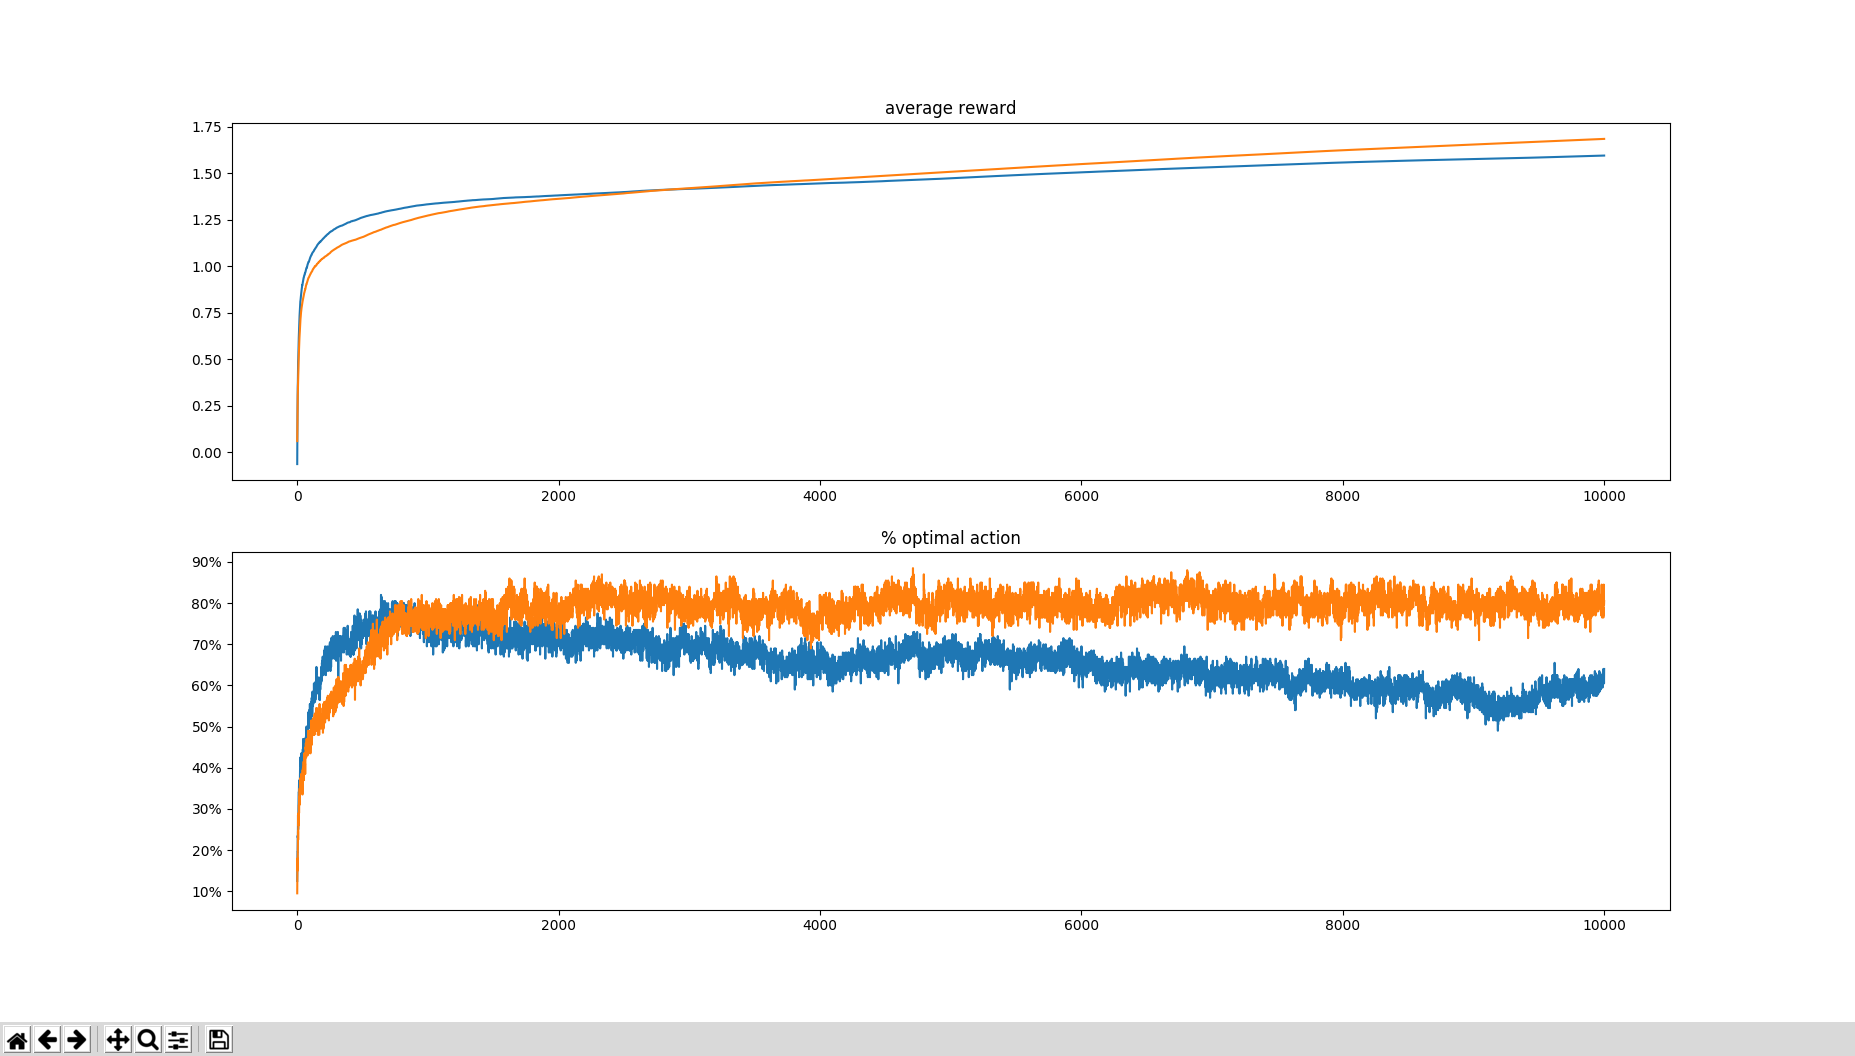
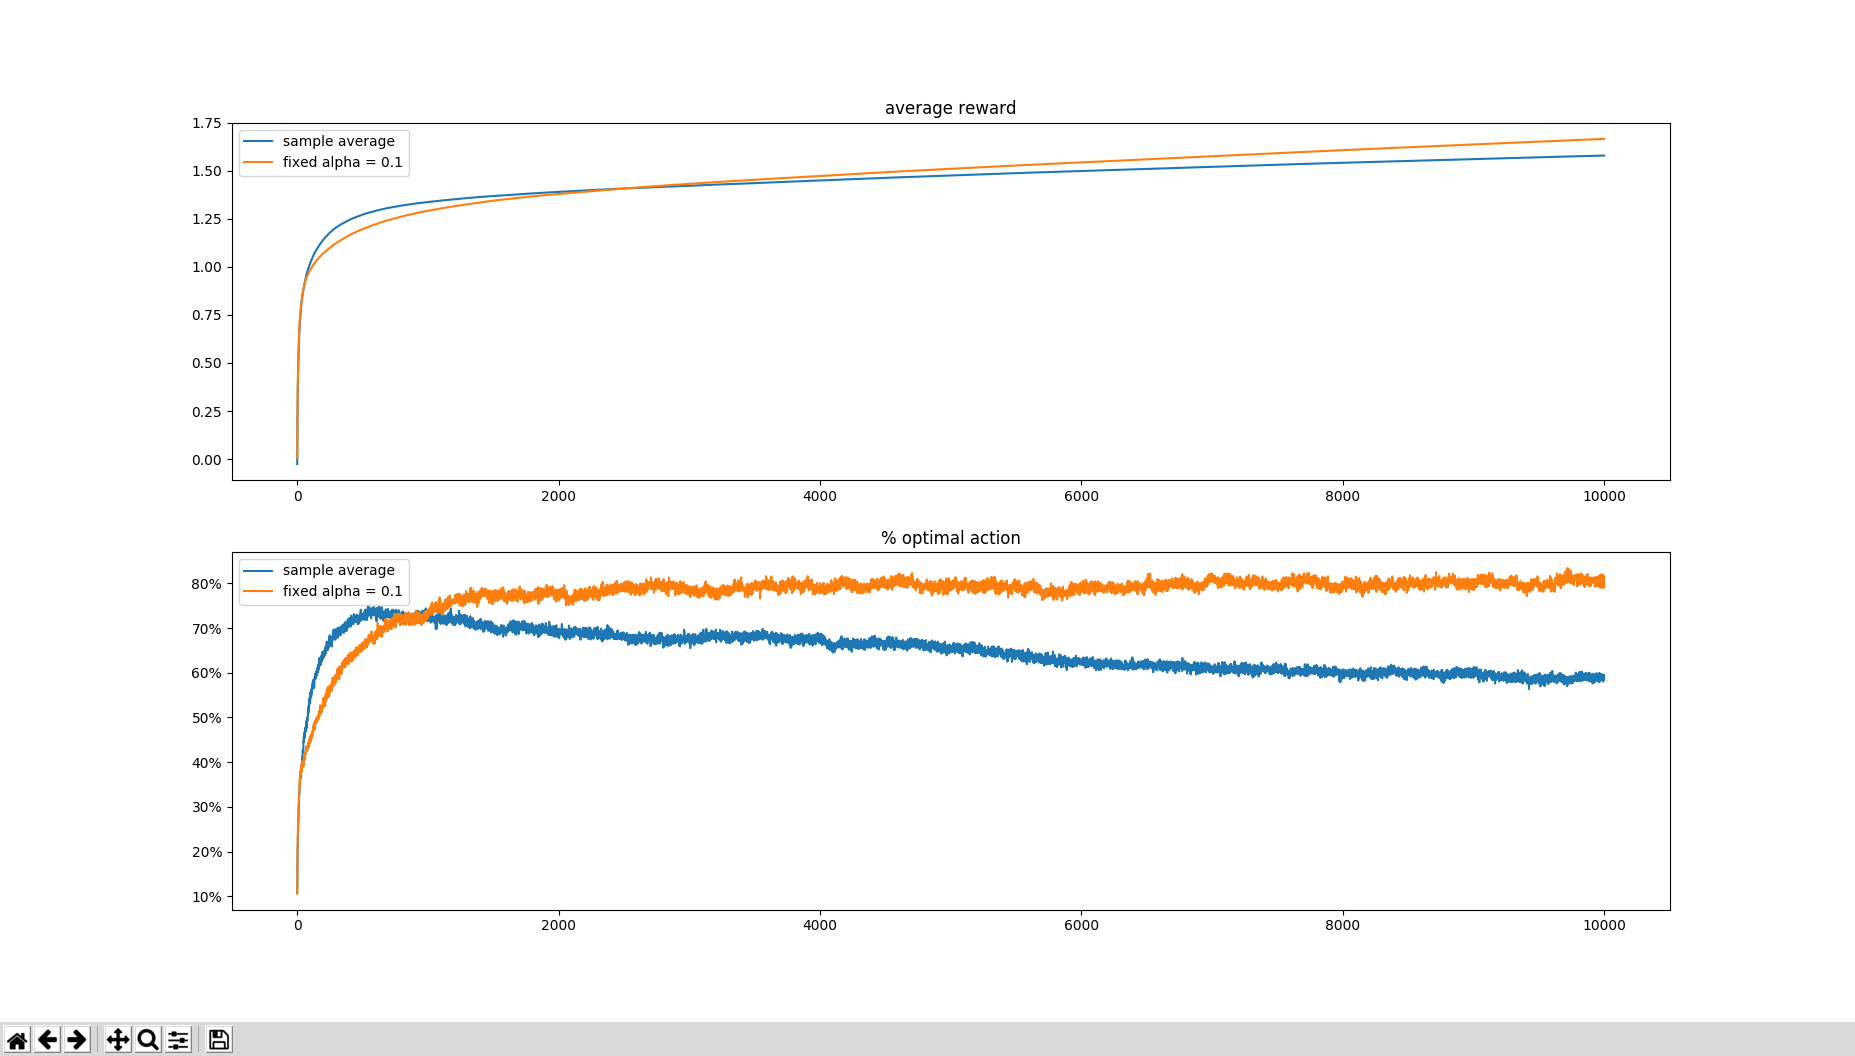
Set num_runs back to 2000 and update result graph.

diff --git a/ch02_multi_armed_bandit/ex02.05_non_stationary/main.py b/ch02_multi_armed_bandit/ex02.05_non_stationary/main.py
@@ -130,7 +130,7 @@ class ConstantStepSizePlayer(Player):
 
 def main():
     num_arms = 10
-    num_runs = 200
+    num_runs = 2000
     num_steps = 10000
 
     sigma_initial = 1.0
